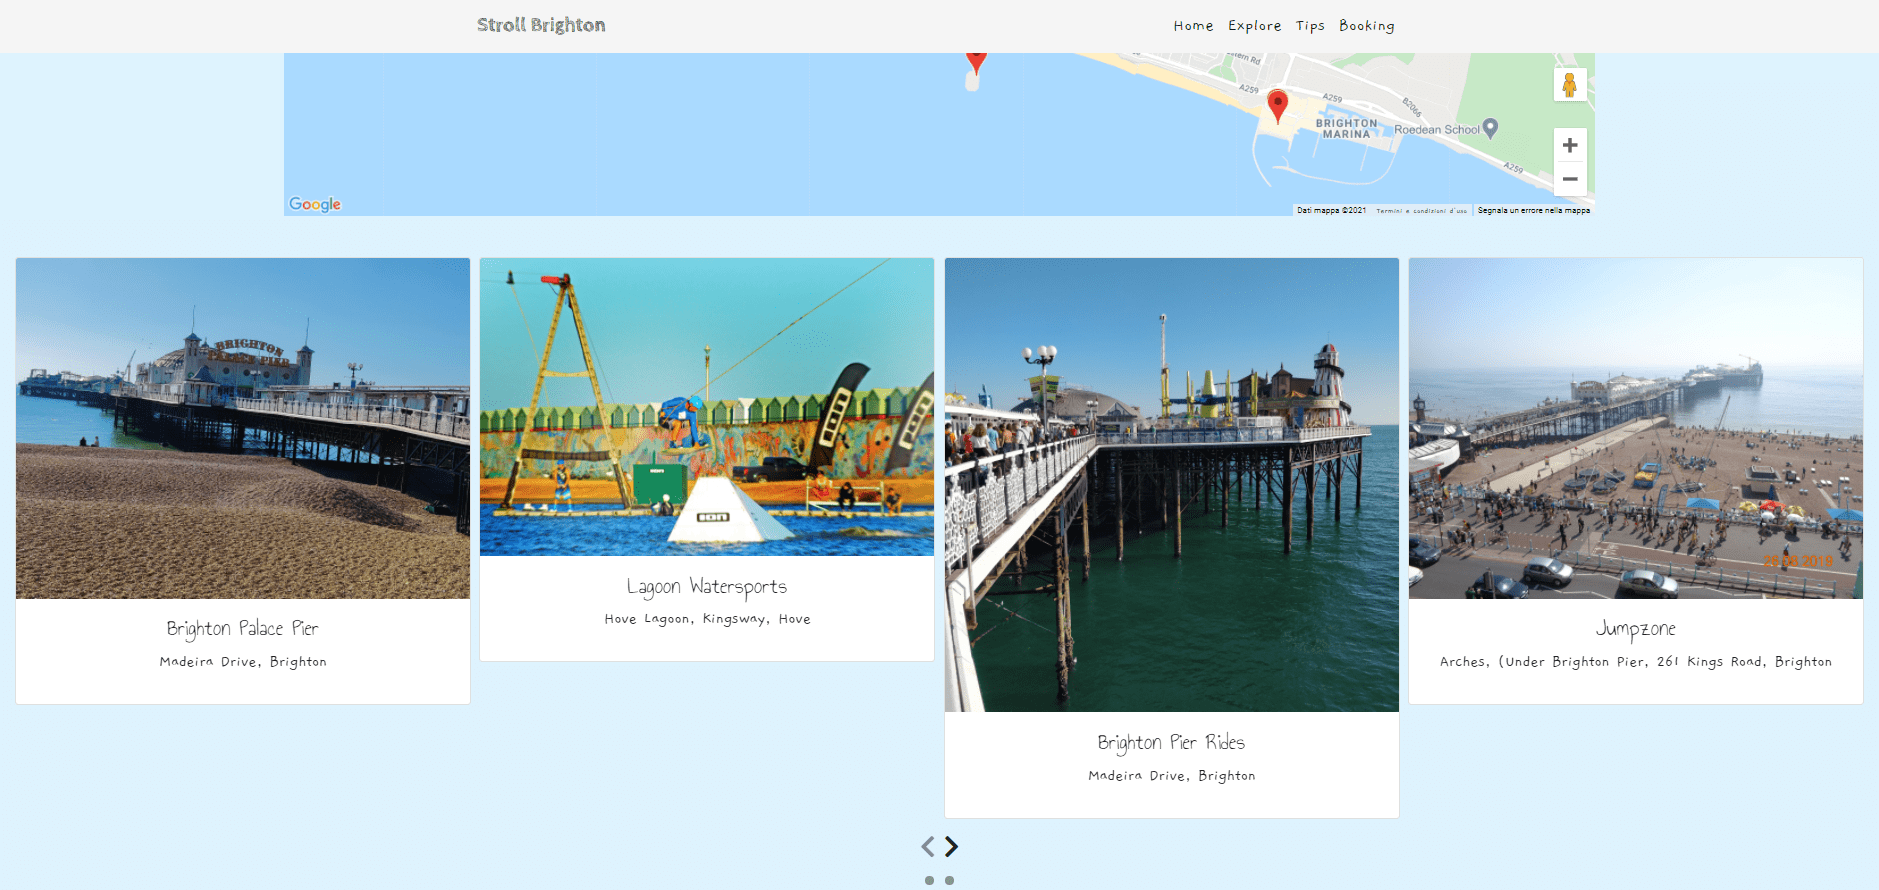
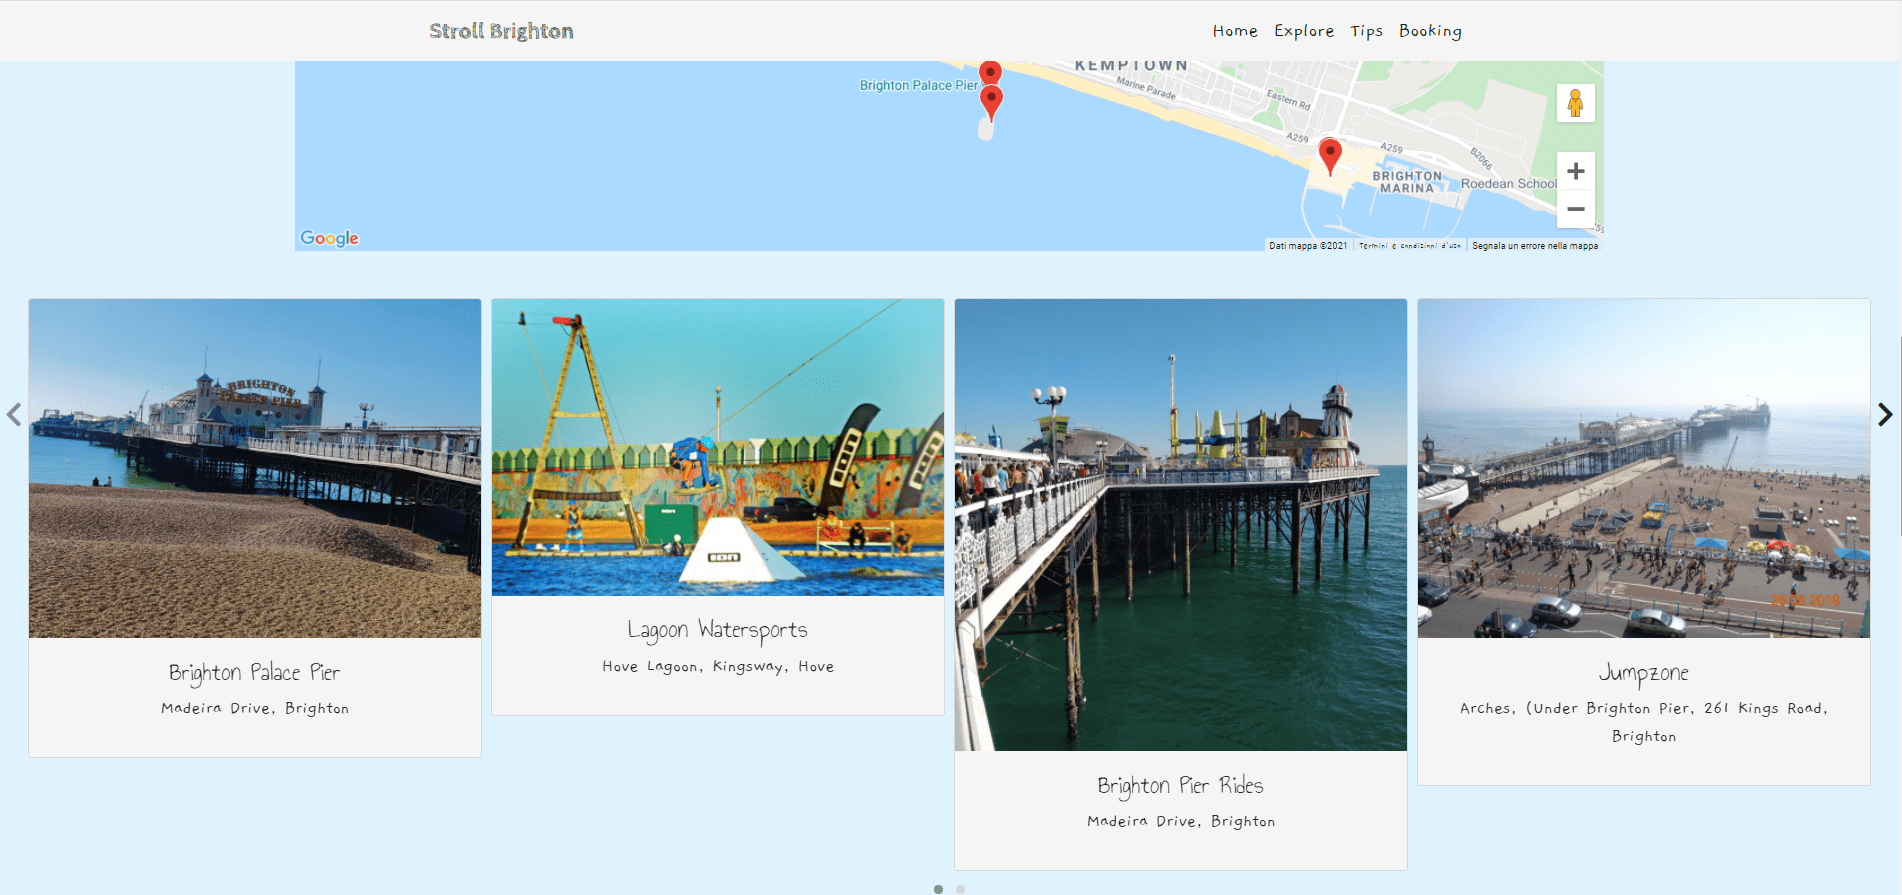
Add updated user stories testing screenshots

diff --git a/assets/js/map.js b/assets/js/map.js
@@ -142,13 +142,12 @@ function displayPlaces(places) {
         });
         
     // Owl Carousel with card places generated by google map
-    
     placesSlider.owlCarousel({
         items: 4,
         margin: 10,
         nav: true,
-        navText: ['<i class="fas fa-chevron-left" aria-label= "left arrow">', '<i class="fas fa-chevron-right" aria-label= "right arrow"></i>'],
-        dotElement: ['<button role="button" aria-label="directional-dots" aria-selected="true"></button>'],
+        navText: ['<i class="fas fa-chevron-left" aria-label= "left arrow" aria-selected="true">', '<i class="fas fa-chevron-right" aria-label= "right arrow" aria-selected="true"></i>'],
+        dotElement: ['<button role="button" class="carousel-buttons" aria-controls="carousel" aria-label="directional-dots" aria-selected="true"></button>'],
         autoplay: false,
         responsiveClass: true,
         responsive:{
@@ -171,8 +170,10 @@ function displayPlaces(places) {
                 nav:true,
             }
         }
-    });
+    });    
+    
 }
+
 
 
 function nearbySearch(placeType) {

diff --git a/assets/js/carousel.js b/assets/js/carousel.js
@@ -11,7 +11,7 @@ $(document).ready(function() {
 		margin: 10,
 		nav: true,
 		navText: ['<i class="fas fa-chevron-left" aria-label= "left arrow">', '<i class="fas fa-chevron-right" aria-label= "right arrow"></i>'],
-		dotElement: ['<button role="button" aria-label="directional-dots" aria-selected="true"></button>'],
+		dotElement: ['<button role="button" class="carousel-buttons" aria-controls="carousel" aria-label="directional-dots" aria-selected="true"></button>'],
 		autoplay: false,
 		responsiveClass: true,
 		responsive: {

diff --git a/index.html b/index.html
@@ -87,11 +87,14 @@
             </div>
         </div>
     </div>
-    <!--Bootstrap cards display 6/8 results for each place type-->
+    <!--Bootstrap cards display 8/10 results for each place type-->
     <div class="container-fluid cardContainer">
         <div class="owl-carousel owl-theme" id="card-places">
         </div>
+         <div id="card-slider">
     </div>
+    </div>
+   
   </section>
   <!--Tips section-->
   <section id="Tips" class="container-fluid tips-container">

diff --git a/README.md b/README.md
@@ -173,7 +173,7 @@ The purpose of the images is to showcase the main locations of the city and enco
 - The footer is fixed to the bottom of the page and provides copyright info at the bottom-left, social media pages icons (GitHub, LinkedIn, Facebook, Instagram) in the center, if clicked they bring the users to social media platforms opened on a different tab.
 - On the "Explore section" is present a Google Map API.
   - The map allows users to search a place by name. The search box auto completes the word inserted by the user.
-  - The map allows to browse the map by four categories (museum, park, cafe, amusement_park). It displays markers of their location and Bootstrap cards of 8/10 places with the photo, name and vicinity of this place.
+  - The map allows to browse the map by four categories (museum, park, cafe, amusement_park). It displays markers of their location and Bootstrap cards of 8/10 places with the photo, name and vicinity of this place. These cards are displayed with a carousel.
 - On the "Tips section" is present a description about the aim of the project.
 - On the "Tips section" is present a carousel which displays the suggested places and links to their websites.
 - On the "Contact section" is present a form to get in touch with me.
@@ -236,6 +236,7 @@ Full testing documentation can be found in [TESTING.md](https://github.com/Marta
 
 - EmailJS stopped working when I merged the owl carousel branch into the master branch. I rearranged the scripts in this order: jquery,  popper, bootstrap, google map, emailjs. As a result of this action the problem was fixed.
 - For me has been a challenge to understand how to loop through the four types of places and I have to thank my Mentor Ignatius Ukwuoma to have shown me how to build sub-arrays into an array and loop through the results with a for each loop.
+- I noticed that some of the images called from google map were higher than others and the default position of the directional arrows (at the bottom) wasn't user friendly and correct so I positioned the arrows on the left and right side of the image. In this way the user can control the carousel and at the same time view the whole card.
 - Another challenge has been building the carousel with the "card places" generated by google map. My mistake was that I was calling placesSlider.owlCarousel() immediately on page load, before the user was doing any search. On page load is empty so it couldn't display anything. I moved placesSlider.owlCarousel() right after cardContainer.innerHTML with the card. In this way when the user clicked on the first category the carousel was displayed and worked fine. The other problem was that when another category was selected, and the results were cleared, the carousel stopped working and only the cards were displayed correctly. I solved this...
 
 ---

diff --git a/assets/docs/TESTING.md b/assets/docs/TESTING.md
@@ -137,10 +137,12 @@ The user receives a positive or negative feedback as the send button displays a 
 I decided to leave the owl dots only on larger screens and not under the breakpoint of (max-width: 767.98px).
 ![Desktop lighthouse](/assets/docs/testing-images/desktop-lighthouse.png "desktop score")
 ![Mobile lighthouse](/assets/docs/testing-images/mobile-lighthouse.png "mobile score")
+- I checked the performance also with [mobiReady](https://ready.mobi/#1921363-1erx)
 
 ## Responsiveness
 
 - I tested my website with all the emulated devices provided by Chrome DevTools. I have noticed that on iPad Pro(1024x1366) and other medium screen sizes the booking section had too much empty space under the contact form. I fixed this using min-height: fit-content. Also the height of the map wasn't proportionate so I set it to 50vh otherwise in px there was too much empty space under the map.
+- I tested the responsiveness also with: [ResponsiveDesignChecker.com](https://www.responsivedesignchecker.com/checker.php?url=https%3A%2F%2Fmarta44.github.io%2FStroll-Brighton%2F&width=1400&height=700)
 
 ## Cross Browser Testing
 
